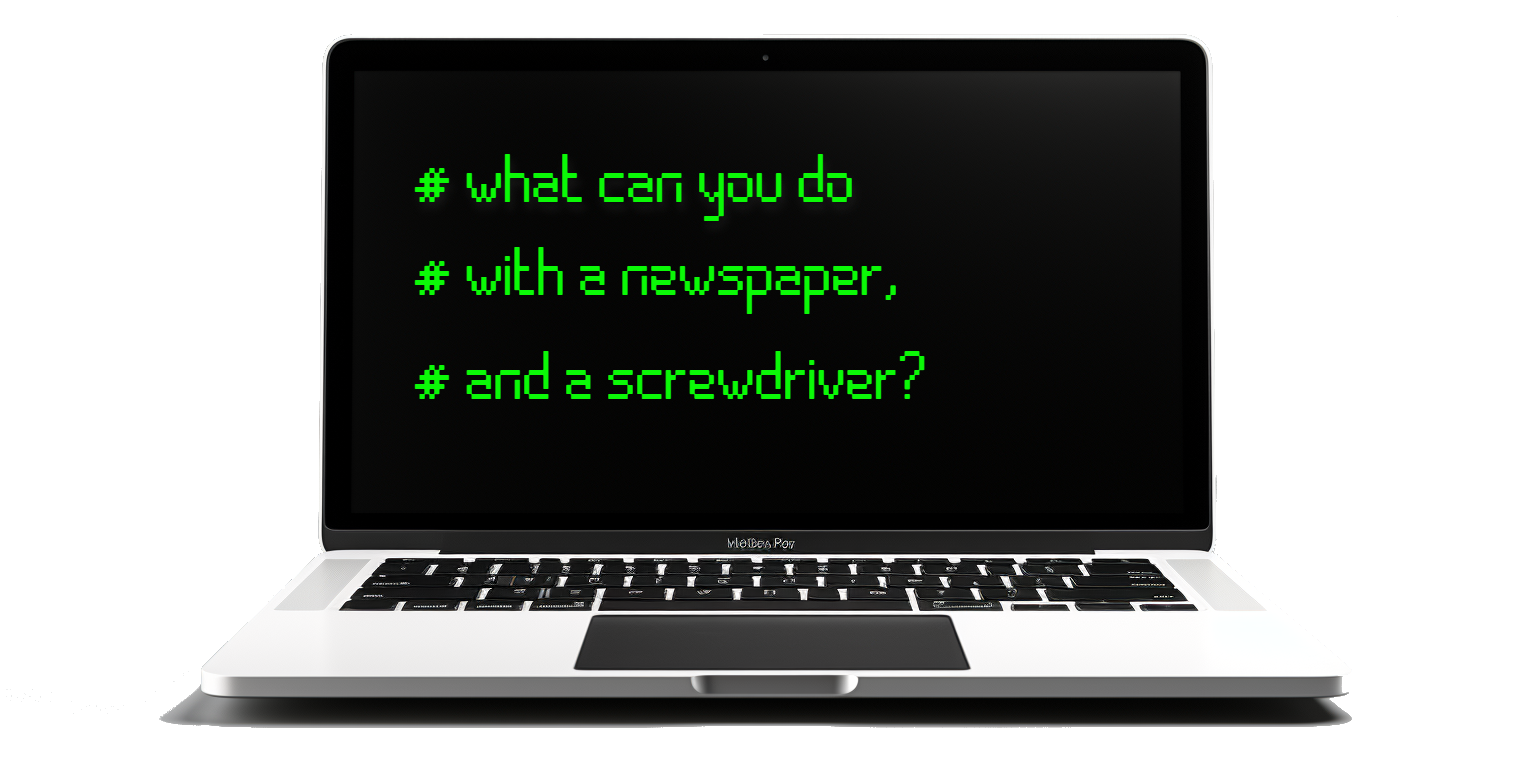
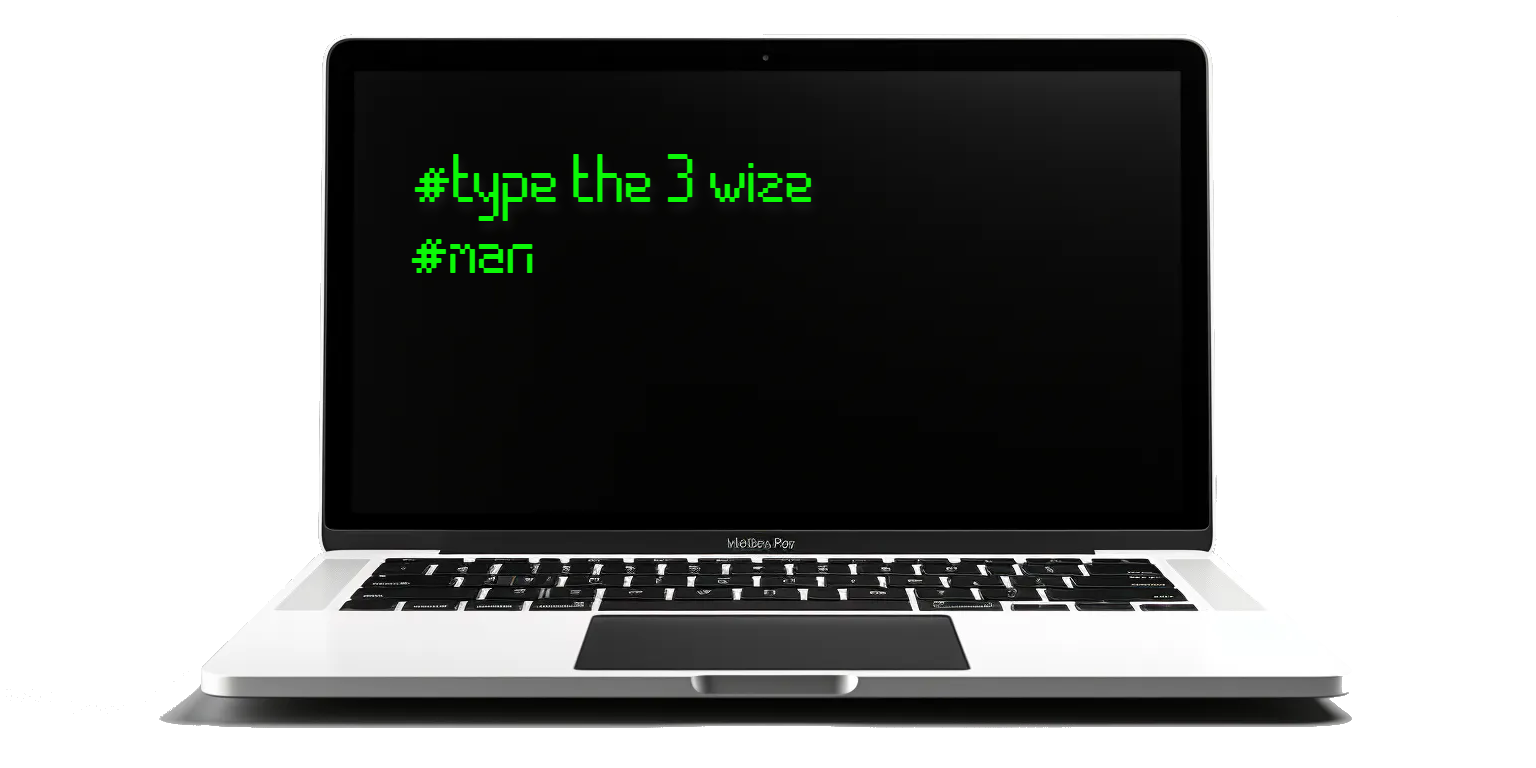
Added level 1

Changed region(s): [[0.25, 0.4688, 0.5938, 0.5312], [0.25, 0.3125, 0.5938, 0.4062], [0.2812, 0.1875, 0.5625, 0.2812]]

diff --git a/templates/next_level.html b/templates/next_level.html
@@ -28,5 +28,13 @@ login
 
     </div>
 </form>
+
+<script>
+    // Get a reference to the input field
+    var inputField = document.getElementById("submit");
+
+    // Set the focus to the input field
+    inputField.focus();
+</script>
 {% endblock %}  
 

diff --git a/database.py b/database.py
@@ -57,7 +57,7 @@ class Room:
         self.expected_output = expected_output
 
 def init_rooms():
-    room = [1,1,1,1,1,1,1,1,1,1,1,1]
+    room = [1,1,1,1,1,1,1,1,1,1,1,1,1]
     #level 1
     room[0] = Room()
     room[1] = Room(1, 
@@ -151,6 +151,28 @@ def init_rooms():
     
     room[11] = Room(11,
                         "This is the last level for now.",
+                        "code",
+                        True,
+                        "table,chair,door,cabinet" ,
+                        {"table":"computer", "door":"<doorlock>", "cabinet":""},
+                        "",
+                        "yyy")
+    
+    room[12] = Room(12,
+                        "Do you like binge-watching?",
+                        "code",
+                        True,
+                        "table,chair,door,cabinet" ,
+                        {"table":"computer", "door":"<doorlock>", "cabinet":""},
+                        "",
+                        "----")
+    
+    
+    
+    '''
+
+    room[11] = Room(11,
+                        "This is the last level for now.",
                         "last",
                         True,
                         "table,chair,door,cabinet" ,
@@ -158,7 +180,8 @@ def init_rooms():
                         "",
                         "----")
     
-
+    
+    '''
                    
 
 
